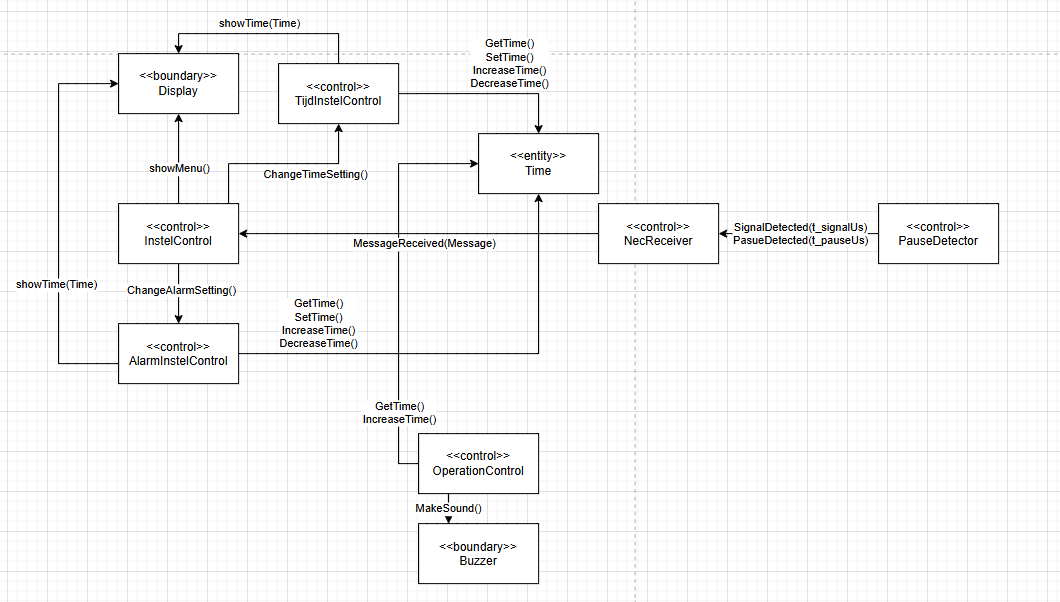
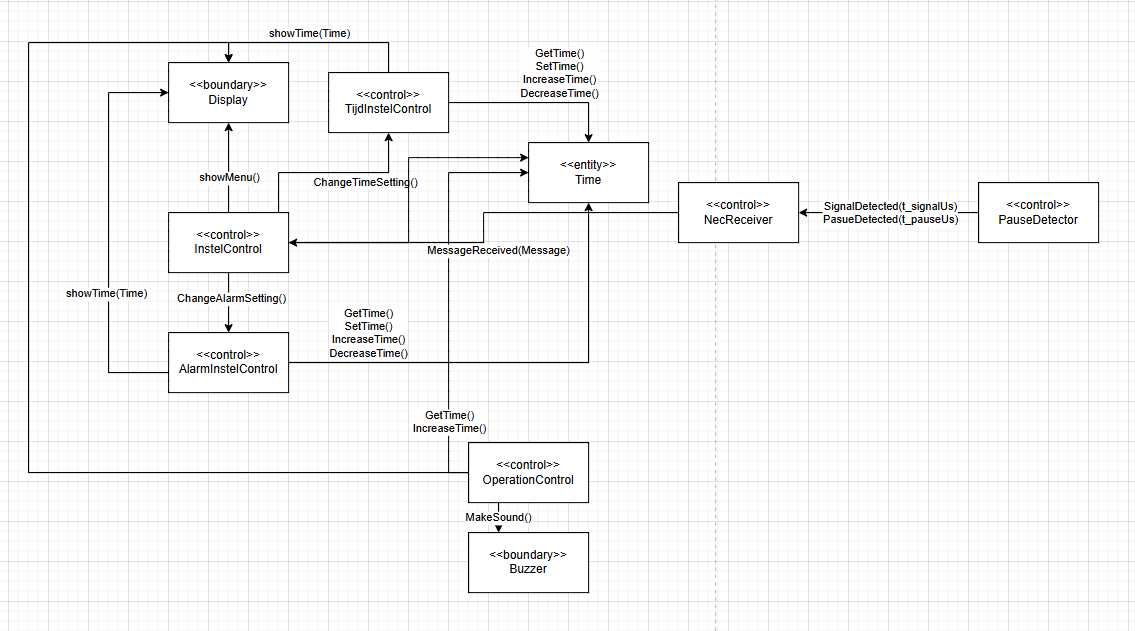
a

diff --git a/docs/README.md b/docs/README.md
@@ -109,6 +109,19 @@ Hieronder heb ik een tabel met de verschillende objecten en functies:
 | `OperationControl`     | Control        | Houdt de tijd bij en activeert het alarm wanneer nodig.                                    |
 | `Time`                 | Entity         | Wordt gebruikt voor het opslaan van de systeem en alarm tijd.                              |
 
+<h2>Klassen Diagram</h2>
+Vanuit het object model is een klassen diagram gemaakt. Nu moet daarbij wel verteld worden dat het klassen diagram veel veranderd is door aan de slag te gaan met de code en er dus ook nog dingen in zitten die ik minder net vindt. Deze zal ik ook toelichten.
+
+Het volgende (huidige) klassendiagram is gemaakt:
+![Diagram](./KlassenDiagram.png)
+
+Binnen dit klassen diagram zijn de verschillende objecten te zien met de relaties hiertussen. Momenteel is ook te zien welke andere objecten ze bevatten. Flags, queues etc. zijn niet toegevoegd.
+
+Enkele opmerkingen die ik over het huidige klassendiagram heb:
+- Momenteel zijn er te veel references die wellicht ook binnen de control klassen zouden zijn, een voorbeeld is de buzzer, die alleen door instelcontrol gebruikt wordt en dus binnen dat object aangemaakt kan worden in plaats van via een reference meegegeven te worden.
+- Momenteel zijn er geen listener en handler klassen, momenteel is er geen nood (en was er ook geen tijd) voor een listener. Wellicht zou een listener toegepast kunnen worden op de control klassen waarbij ze luisteren naar de IR klassen voor een bericht. Momenteel fungeert de IR klasse als de handler klassen omdat alle bytes(buttons) daarin verwerkt worden. Mochten er later aparte buttons zijn zou er eventueel een handler klassen kunnen zijn die alle buttons updatet (dus samen via cohesie ipv aparte buttons).
+- Verder voelt het nog een beetje rommelig dus zou er nog eens verder naar kunnen worden gekeken om eventueel het een en ander op te schonen.
+
 <h2>Taakstructurering</h2>
 
 ## Eerste versie van taken
